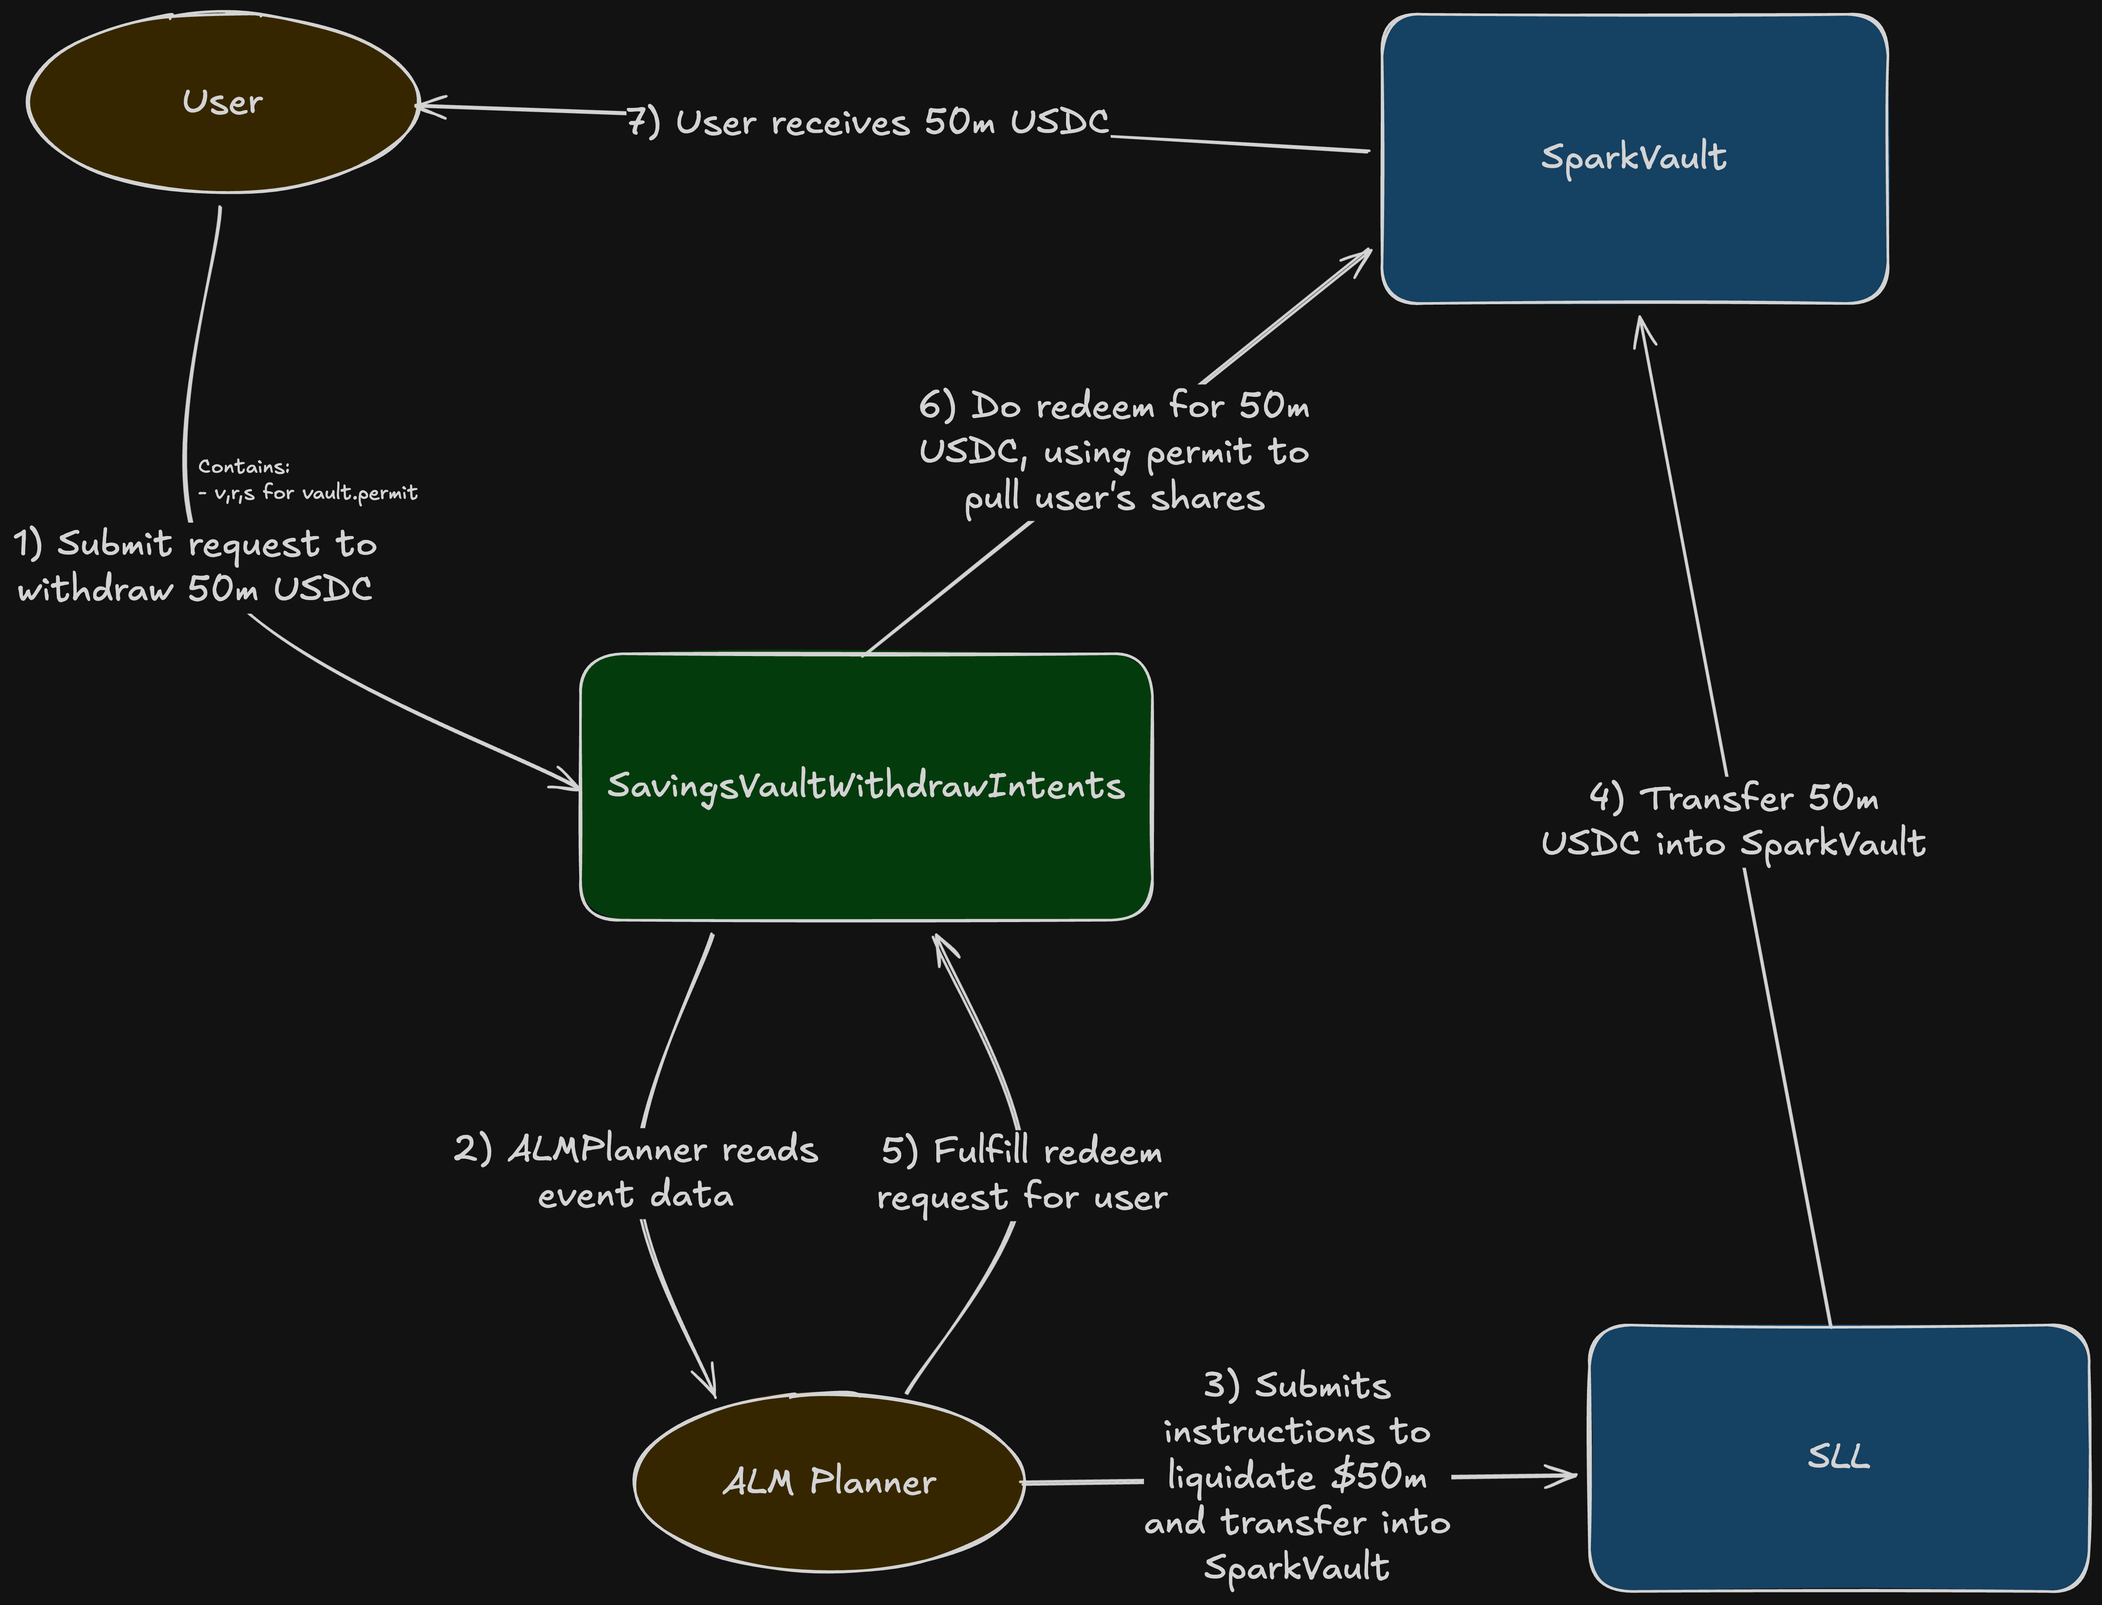
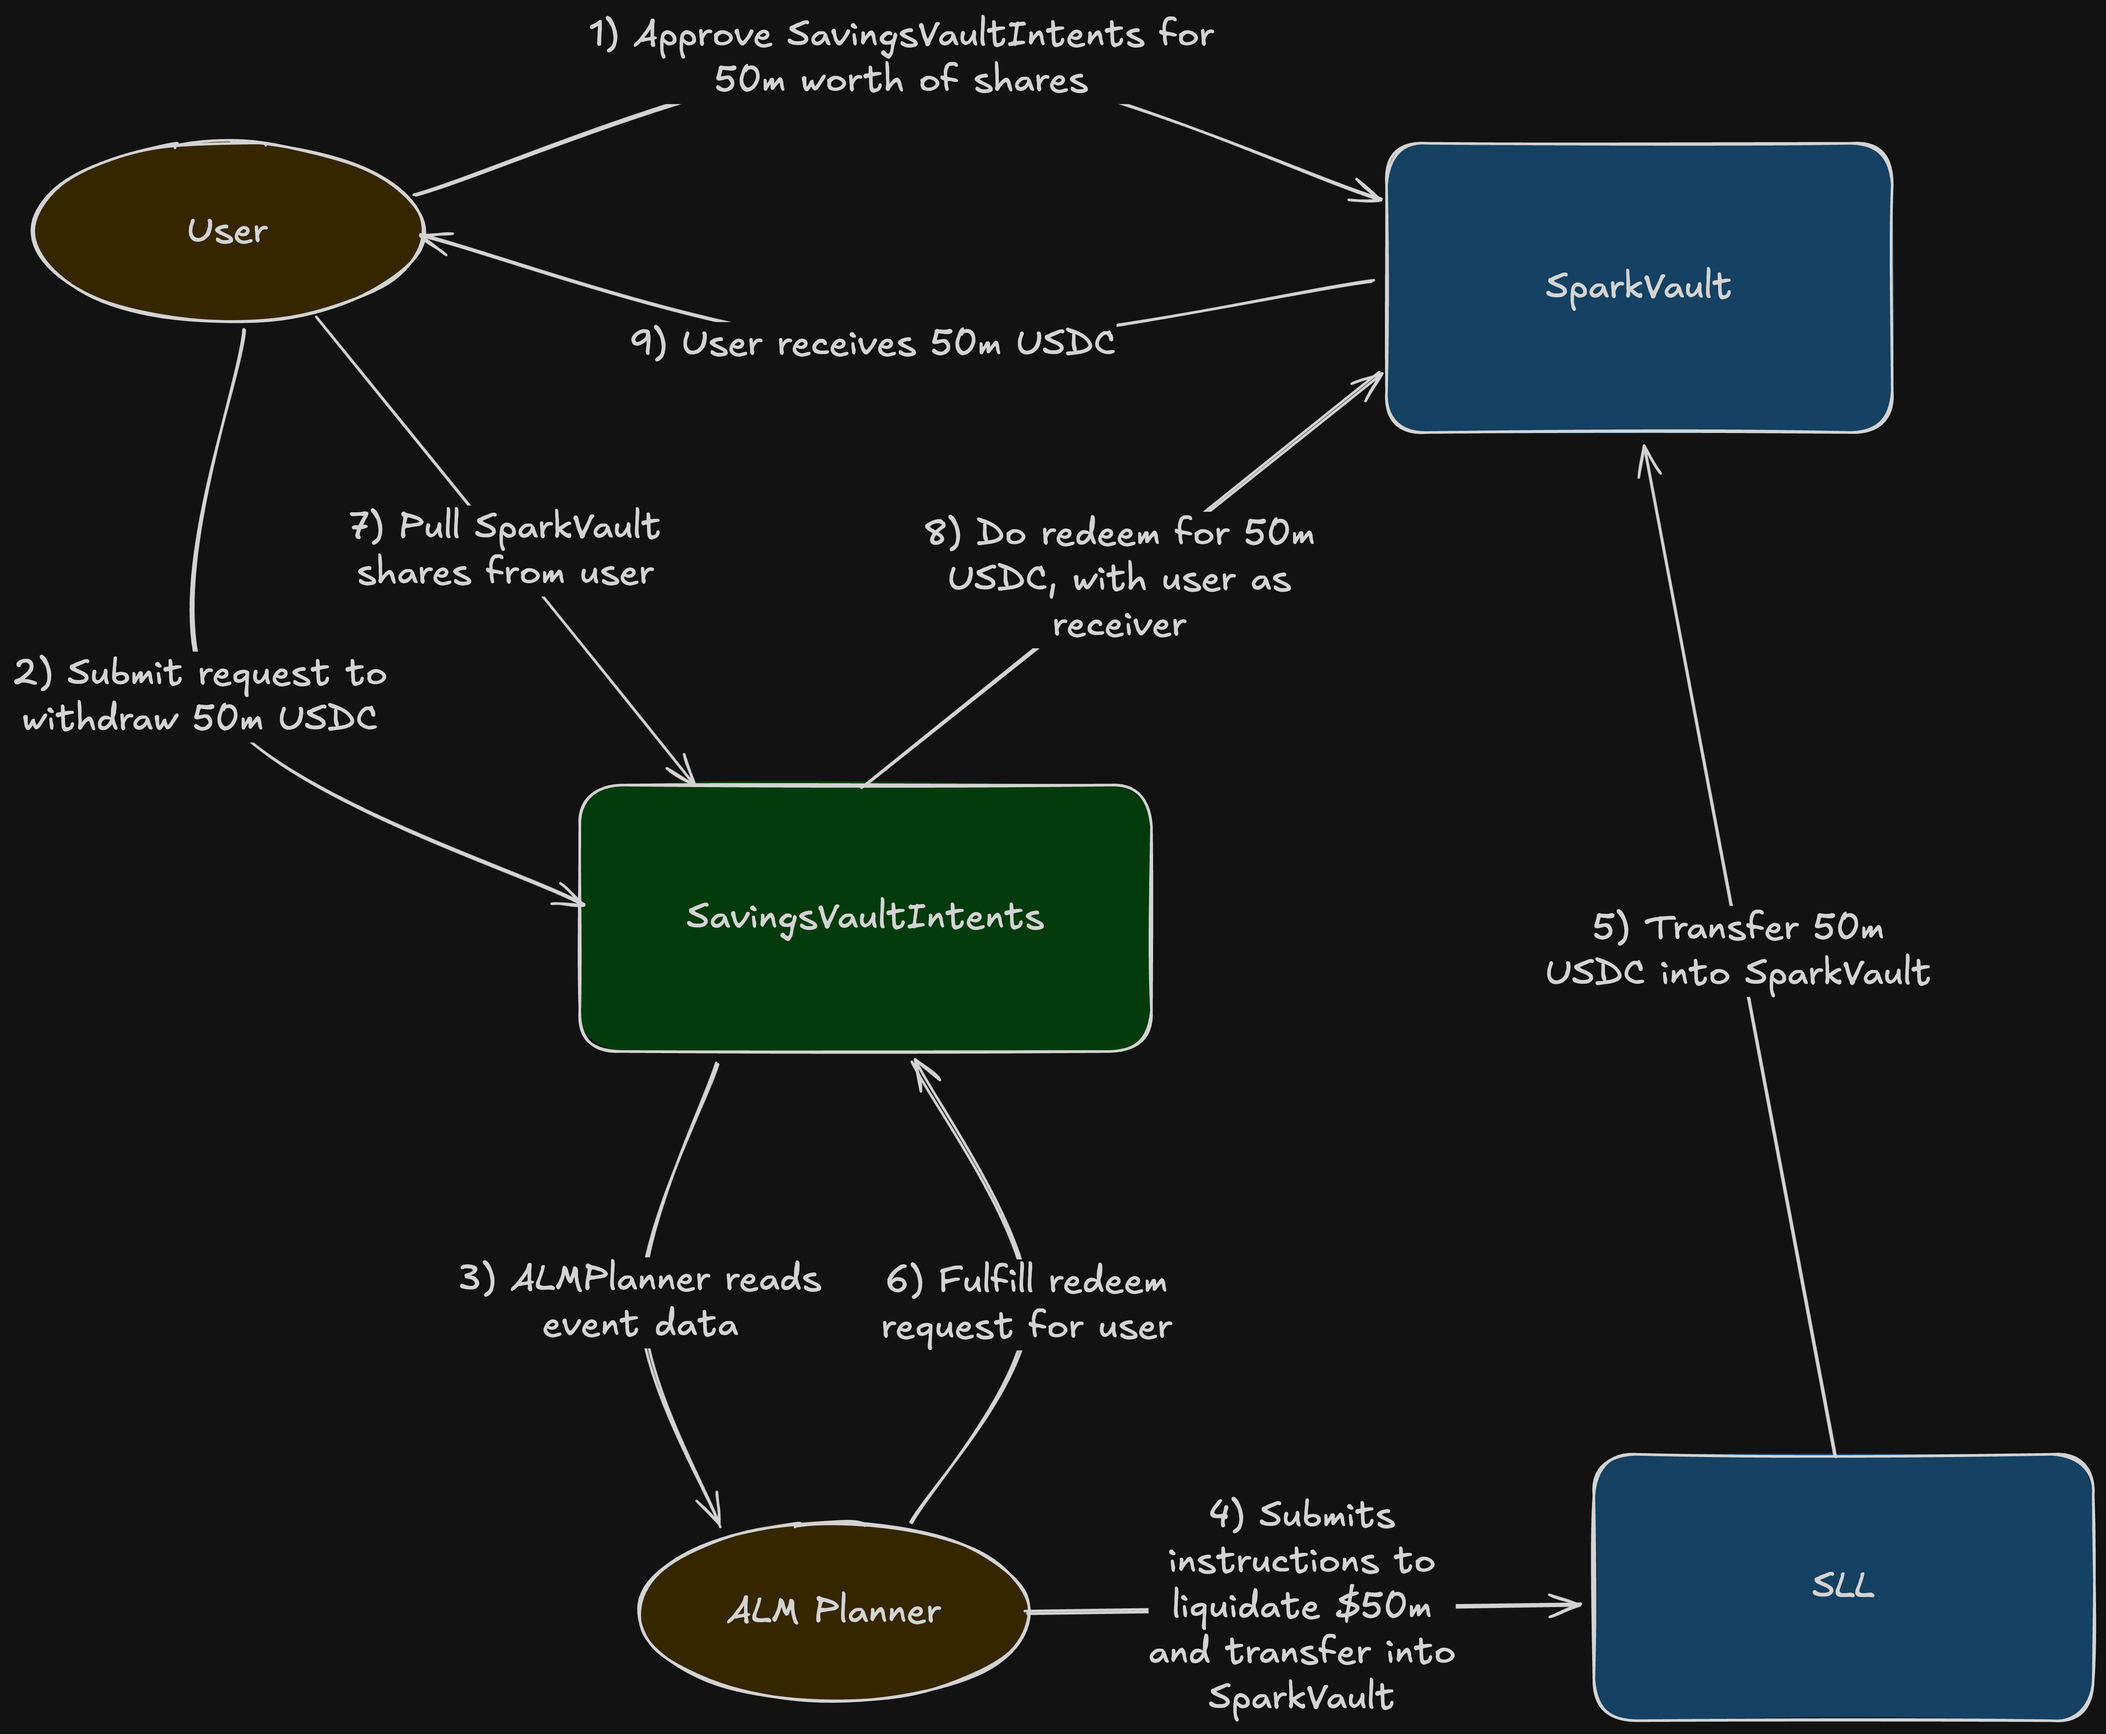
review fix

diff --git a/README.md b/README.md
@@ -13,7 +13,7 @@ Spark Liquidity Intents is a system designed to handle large liquidity operation
 
 ### Problem
 
-Spark Savings Vaults are ERC-4626 vaults where users deposit assets and receive vault shares. When users want to withdraw -especially large amounts -the vault may not hold enough idle liquidity to process the redemption immediately. A direct on-chain `redeem` call would simply revert, leaving the user unable to exit their position.
+Spark Savings Vaults are ERC-4626 vaults where users deposit assets and receive vault shares. When users want to withdraw especially large amounts the vault may not hold enough idle liquidity to process the redemption immediately. A direct on-chain `redeem` call would simply revert, leaving the user unable to exit their position.
 
 ### Solution
 
@@ -31,19 +31,17 @@ The system involves three actors:
 
 ### User Flow
 
-> **Note:** The diagram below is from an earlier design iteration and will be replaced. The current implementation uses a simple ERC-20 `approve` instead of permit signatures.
-
 ![Savings Intent Architecture](docs/saving_intents_architecture.png)
 
 **Step-by-step flow (current implementation):**
 
-1. **Approve shares** -User approves the SavingsVaultIntents contract to spend their vault shares via `vault.approve(intentContract, shares)`.
-2. **Create request** -User calls `request(vault, shares, recipient, deadline)` on the intent contract. The contract validates all preconditions and stores the `WithdrawRequest`.
-3. **Event emitted** -A `RequestCreated` event is emitted containing the account, vault, requestId, shares, recipient, and deadline.
-4. **Liquidity orchestration** -The ALM Planner monitors `RequestCreated` events. It orchestrates the required liquidity by instructing asset liquidation and transferring the proceeds into the Spark Vault so it has enough idle assets to cover the redemption.
-5. **Fulfill request** -The ALM Planner calls `fulfill(account, vault, requestId)` on the intent contract.
-6. **Atomic redemption** -The contract deletes the stored request and calls `vault.redeem(shares, recipient, account)`, redeeming on behalf of the user using their share allowance and sending the underlying assets directly to the recipient. The intent contract never holds any shares or assets.
-7. **User receives assets** -The user (or specified recipient) receives the underlying assets in their wallet.
+1. **Approve shares**:  User approves the SavingsVaultIntents contract to spend their vault shares via `vault.approve(intentContract, shares)`.
+2. **Create request**: User calls `request(vault, shares, recipient, deadline)` on the intent contract. The contract validates all preconditions and stores the `WithdrawRequest`.
+3. **Event emitted**: A `RequestCreated` event is emitted containing the account, vault, requestId, shares, recipient, and deadline.
+4. **Liquidity orchestration**: The ALM Planner monitors `RequestCreated` events. It orchestrates the required liquidity by instructing asset liquidation and transferring the proceeds into the Spark Vault so it has enough idle assets to cover the redemption.
+5. **Fulfill request**: The ALM Planner calls `fulfill(account, vault, requestId)` on the intent contract.
+6. **Atomic redemption**: The contract deletes the stored request and calls `vault.redeem(shares, recipient, account)`, redeeming on behalf of the user using their share allowance and sending the underlying assets directly to the recipient. The intent contract never holds any shares or assets.
+7. **User receives assets**: The user (or specified recipient) receives the underlying assets in their wallet.
 
 ## Functionality
 
@@ -70,10 +68,10 @@ A user can cancel their pending request by calling `cancel(vault)`. This deletes
 The `fulfill(account, vault, requestId)` function is restricted to accounts with the `RELAYER` role (the Spark ALM Planner). When called, it:
 
 1. Loads the stored `WithdrawRequest` for the given account and vault
-2. Validates that the request exists and the provided `requestId` matches the stored one (race condition protection -see [Security](#security-considerations))
+2. Validates that the request exists and the provided `requestId` matches the stored one (race condition protection - see [Security](#security-considerations))
 3. Validates that the deadline has not been exceeded
 4. Deletes the stored request
-5. Calls `vault.redeem(shares, recipient, account)` -redeeming the user's shares on their behalf (using the share allowance) and sending the underlying assets directly to the specified recipient
+5. Calls `vault.redeem(shares, recipient, account)`, redeeming the user's shares on their behalf (using the share allowance) and sending the underlying assets directly to the specified recipient
 
 The fulfillment is **atomic**: the intent contract never holds any shares or assets at any point during execution.
 
@@ -99,16 +97,16 @@ The contract uses OpenZeppelin's `AccessControlEnumerable` with two roles:
 
 The admin can perform the following configuration operations:
 
-- **`setMaxDeadline(uint256 maxDeadline_)`** -Updates the maximum allowed deadline duration. The deadline for any request must be at most `block.timestamp + maxDeadline` into the future. Cannot be set to zero.
+- **`setMaxDeadline(uint256 maxDeadline_)`** - Updates the maximum allowed deadline duration. The deadline for any request must be at most `block.timestamp + maxDeadline` into the future. Cannot be set to zero.
 
-- **`updateVaultConfig(address vault, bool whitelisted, uint256 minIntentAssets, uint256 maxIntentAssets)`** -Configures a vault's whitelist status and intent amount bounds. The `minIntentAssets` must be strictly less than `maxIntentAssets`. These bounds define the acceptable range for the underlying asset value of requested shares.
+- **`updateVaultConfig(address vault, bool whitelisted, uint256 minIntentAssets, uint256 maxIntentAssets)`** - Configures a vault's whitelist status and intent amount bounds. The `minIntentAssets` must be strictly less than `maxIntentAssets`. These bounds define the acceptable range for the underlying asset value of requested shares.
   - The min/max intent asset bounds exist because the intent system is designed to serve **large withdrawals** from Spark Savings Vaults. In production, these thresholds will be set to high values (e.g., millions of USDC) to ensure the system is used for its intended purpose.
 
 ### RELAYER
 
 The relayer (Spark ALM Planner) has a single capability:
 
-- **`fulfill(address account, address vault, uint256 requestId)`** -Execute the atomic withdrawal fulfillment for a user's pending request.
+- **`fulfill(address account, address vault, uint256 requestId)`** - Execute the atomic withdrawal fulfillment for a user's pending request.
 
 ## Security Considerations
 
@@ -121,8 +119,8 @@ This section is intended for auditors and security researchers reviewing the `Sa
 
 ### Key Invariants
 
-- **Atomic fulfillment** -The intent contract never holds any shares or assets at any point. Fulfillment calls `vault.redeem(shares, recipient, account)` directly, redeeming on behalf of the user and sending assets straight to the recipient.
-- **Vault compatibility** -Whitelisted vaults will be Spark Vault v2. The intent contract is designed to be fully compatible with the Spark Vault v2 implementation.
+- **Atomic fulfillment:** The intent contract never holds any shares or assets at any point. Fulfillment calls `vault.redeem(shares, recipient, account)` directly, redeeming on behalf of the user and sending assets straight to the recipient.
+- **Vault compatibility:** Whitelisted vaults will be Spark Vault v2. The intent contract is designed to be fully compatible with the Spark Vault v2 implementation.
 
 ### Expected Behaviors
 
@@ -133,11 +131,11 @@ This section is intended for auditors and security researchers reviewing the `Sa
 
 #### 1. Post-Request Allowance/Balance Revocation
 
-A user can revoke their share allowance or transfer shares away after successfully creating a request. This would make the request unfulfillable -the `redeem` call during `fulfill` would revert due to insufficient allowance or balance.
+A user can revoke their share allowance or transfer shares away after successfully creating a request. This would make the request unfulfillable, the `redeem` call during `fulfill` would revert due to insufficient allowance or balance.
 
 **Mitigation:** The ALM Planner is functionally intelligent and will detect such invalid requests off-chain, avoiding wasted gas on doomed `fulfill` calls. Even if the planner did attempt fulfillment, the transaction would simply revert with no adverse effects.
 
-The high `minIntentAssets` threshold makes spamming (creating requests then revoking) economically impractical -the user would need to hold a significant amount of vault shares. There is no upside for attackers performing this kind of spam.
+The high `minIntentAssets` threshold makes spamming (creating requests then revoking) economically impractical, the user would need to hold a significant amount of vault shares. There is no upside for attackers performing this kind of spam.
 
 #### 2. Stale Min/Max Asset Checks
 
